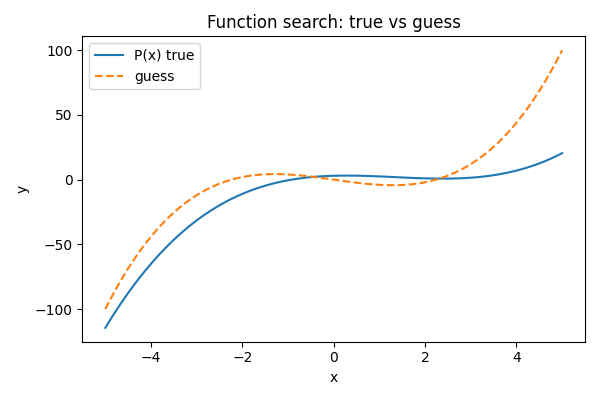
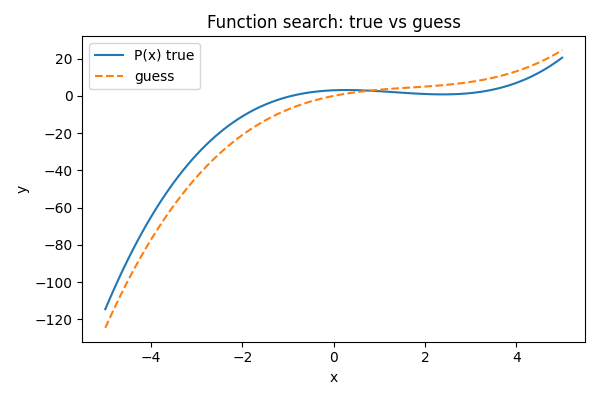
implement multiline marker strings.

diff --git a/src/marker_pattern/lang/parser.py b/src/marker_pattern/lang/parser.py
@@ -38,6 +38,8 @@ def _unescape(text: str) -> str:
     text = text.replace("==", "=").replace("@@", "@")
     # ',,' is handled in arg parsing; keep here for plain text
     text = text.replace(",,", ",")
+    # backslash escape for literal '\\'
+    text = text.replace("\\\\", "\\")
     return text
 
 
@@ -56,7 +58,7 @@ def _parse_segments(body: str) -> List[Segment]:
         nxt = body[i + 1] if i + 1 < len(body) else ""
 
         # Handle escaped doubles in plain text
-        if ch + nxt in ("<<", ">>", "[[", "]]", "==", "@@"):
+        if ch + nxt in ("<<", ">>", "[[", "]]", "==", "@@", "\\\\"):
             buf.append(ch)  # leave as doubled for _unescape to process
             buf.append(nxt)
             i += 2
@@ -108,6 +110,38 @@ def _parse_segments(body: str) -> List[Segment]:
     return segments
 
 
+def _merge_line_continuations(source: str) -> str:
+    raw = source.splitlines()
+    merged: List[str] = []
+    i = 0
+    while i < len(raw):
+        cur = raw[i]
+        # Detect unescaped trailing backslash for continuation
+        s = cur.rstrip()
+        if s.endswith("\\") and not s.endswith("\\\\"):
+            # remove backslash and any trailing spaces
+            current = s[:-1]
+            j = i + 1
+            # pull following lines while they also continue
+            while j < len(raw):
+                nxt = raw[j]
+                s2 = nxt.lstrip()
+                t = nxt.rstrip()
+                if t.endswith("\\") and not t.endswith("\\\\"):
+                    current = (current.rstrip() + " " + s2.rstrip()[:-1].lstrip())
+                    j += 1
+                    continue
+                # last line in the continuation
+                current = (current.rstrip() + " " + s2.lstrip())
+                break
+            merged.append(current)
+            i = j + 1
+            continue
+        merged.append(cur)
+        i += 1
+    return "\n".join(merged)
+
+
 def _find_matching(s: str, start: int, open_ch: str, close_ch: str) -> int:
     depth = 0
     i = start
@@ -124,7 +158,7 @@ def _find_matching(s: str, start: int, open_ch: str, close_ch: str) -> int:
 
         if not in_backticks:
             # Do not treat '[[', ']]' as escapes when matching brackets; they may be nested types like list[str]
-            if ch + nxt in ("<<", ">>", "==", "@@", ",,"):
+            if ch + nxt in ("<<", ">>", "==", "@@", ",,", "\\\\"):
                 i += 2
                 continue
             if ch == open_ch:
@@ -270,7 +304,9 @@ def _parse_args(src: str) -> List[CallArg]:
 
 
 def parse_program(source: str) -> Program:
-    pre = preprocess_blocks(source)
+    # Merge continuations before preprocessing so BEGIN/END markers aren't inserted mid-line
+    merged_src = _merge_line_continuations(source)
+    pre = preprocess_blocks(merged_src)
     lines = pre.splitlines()
 
     program = Program()

diff --git a/tests/test_multiline_marker.py b/tests/test_multiline_marker.py
@@ -1,0 +1,95 @@
+from __future__ import annotations
+
+from typing import Any
+
+import pytest
+
+from marker_pattern.lang import parse_program, compile_program
+import marker_pattern.core as core
+
+
+class _SingleFakeAgent:  # type: ignore[misc]
+    def __init__(self, model: str | None = None, *, output_type: Any = None, **_: Any) -> None:  # type: ignore[no-untyped-def]
+        self.output_type = output_type
+
+    def run_sync(self, prompt: str):  # type: ignore[override]
+        # Very simple agent: return all requested fields as deterministic placeholders
+        from typing import List, Dict
+
+        data: Dict[str, Any] = {}
+        # discover requested keys like [x, y]
+        start = prompt.find("[")
+        end = prompt.find("]", start + 1)
+        keys: List[str] = []
+        if start != -1 and end != -1:
+            keys = [k.strip() for k in prompt[start + 1 : end].split(",") if k.strip()]
+        class R:
+            def __init__(self, d: Dict[str, Any]):
+                self.output = d
+        for k in keys:
+            data[k] = f"{k}-value"
+        return R(data)
+
+
+def _run(src: str) -> str:
+    core.Agent = _SingleFakeAgent  # type: ignore[assignment]
+    rt = compile_program(parse_program(src))
+    out = rt.run_main()
+    assert isinstance(out, str)
+    return out
+
+
+def test_basic_multiline_return(monkeypatch: Any) -> None:
+    src = (
+        "= Start \\\n"
+        "  middle \\\n"
+        "  end\n"
+    )
+    out = _run(src)
+    assert out == "Start middle end"
+
+
+def test_multiline_with_substitutions(monkeypatch: Any) -> None:
+    src = (
+        "@p(x,y):\n"
+        "  = Left <x> \\     \n"
+        "    mid <`y.upper()`> \\\n"
+        "    right\n\n"
+        "= <p(alpha, beta)>\n"
+    )
+    out = _run(src)
+    assert out == "Left alpha mid BETA right"
+
+
+def test_multiline_escaped_backslash(monkeypatch: Any) -> None:
+    src = (
+        "= path: C:\\\\Users\\\\name \\\n"
+        "  tail\n"
+    )
+    out = _run(src)
+    assert "C:\\Users\\name" in out and out.endswith(" tail")
+
+
+def test_multiline_inside_template_line(monkeypatch: Any) -> None:
+    src = (
+        "@p():\n"
+        "  prefix \\\n"
+        "    [x] \\\n"
+        "    suffix\n"
+        "  = <x>\n\n"
+        "= <p()>\n"
+    )
+    out = _run(src)
+    assert out.endswith("-value")
+
+
+def test_multiline_with_nested_calls(monkeypatch: Any) -> None:
+    src = (
+        "@id(x):\n  = <x>\n\n"
+        "= [[ [[ <id(A)>    \\   \n" # ignore whitespaces after \, but not before
+        "      and <id(B)>    ]] ]]\n"
+    )
+    out = _run(src)
+    assert out == "[ [ A and B    ] ]"
+
+

diff --git a/docs/MARKER_DSL.md b/docs/MARKER_DSL.md
@@ -15,6 +15,16 @@ Marker is a lightweight DSL to orchestrate LLM interactions using indentation-sc
 - Tabs count as width 4 for indentation comparison.
 
 ### Substitutions and Calls
+- Multiline marker strings:
+  - Any template or return line can be continued by ending the line with a single unescaped backslash `\`. Whitespace between the backslash and newline is ignored, and the following line's content is concatenated as if it were the same line.
+  - To render a literal backslash, escape it as `\\`.
+  - Example:
+    ````
+    = Start \
+      middle \
+      end
+    ````
+    renders as `Start middle end`.
 - `<name>` reads a variable by name.
 - `<name(args...)>` calls a procedure. Calls may be nested: `<outer(<inner(...)>)>`.
 - Inline Python expression: `<`code`>` executes a single-line Python expression.
@@ -120,7 +130,7 @@ Examples:
 
 ### Escaping Special Characters
 Double the character to treat it as a literal:
-- `<<` → `<`, `>>` → `>`, `[[` → `[`, `]]` → `]`, `==` → `=`, `@@` → `@`, `,,` → `,`.
+- `<<` → `<`, `>>` → `>`, `[[` → `[`, `]]` → `]`, `==` → `=`, `@@` → `@`, `,,` → `,`, `\\` → `\`.
 Backticks are only meaningful inside `<...>` for inline Python; no escaping is needed otherwise.
 
 ### Examples
